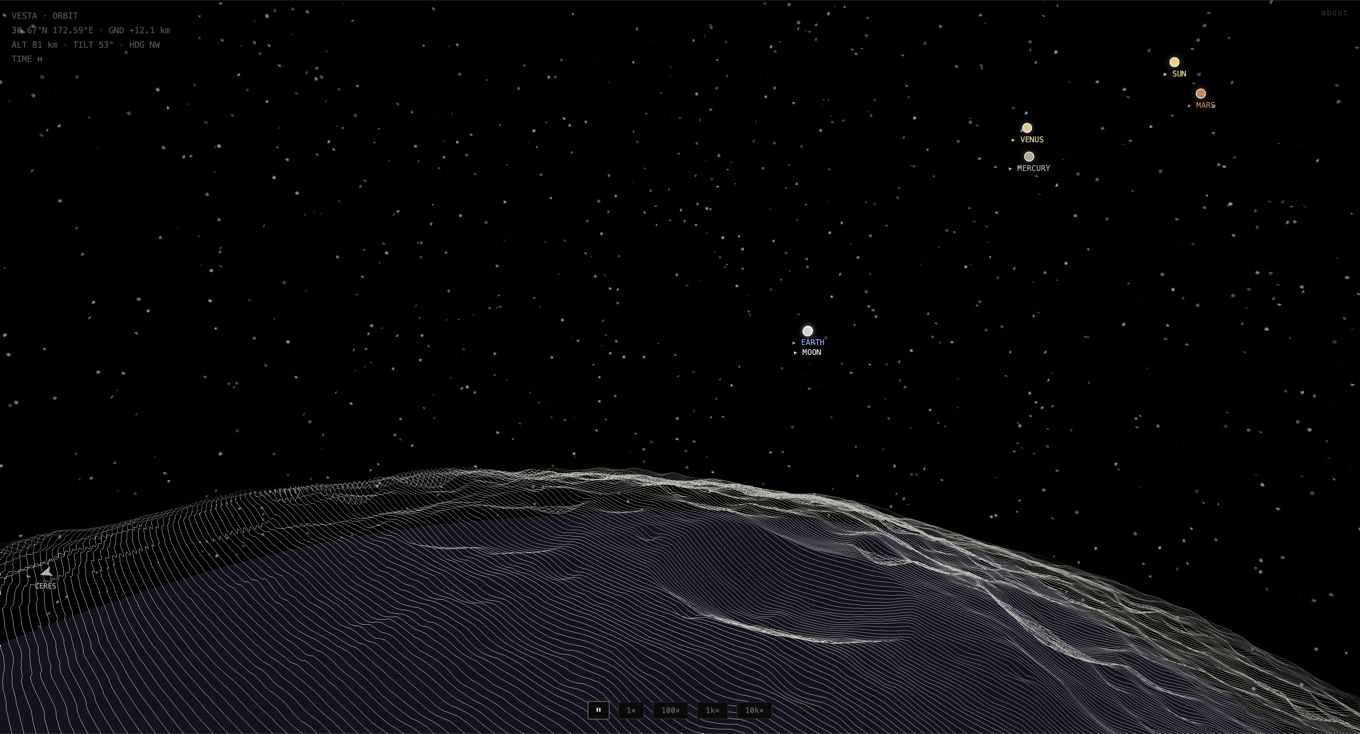
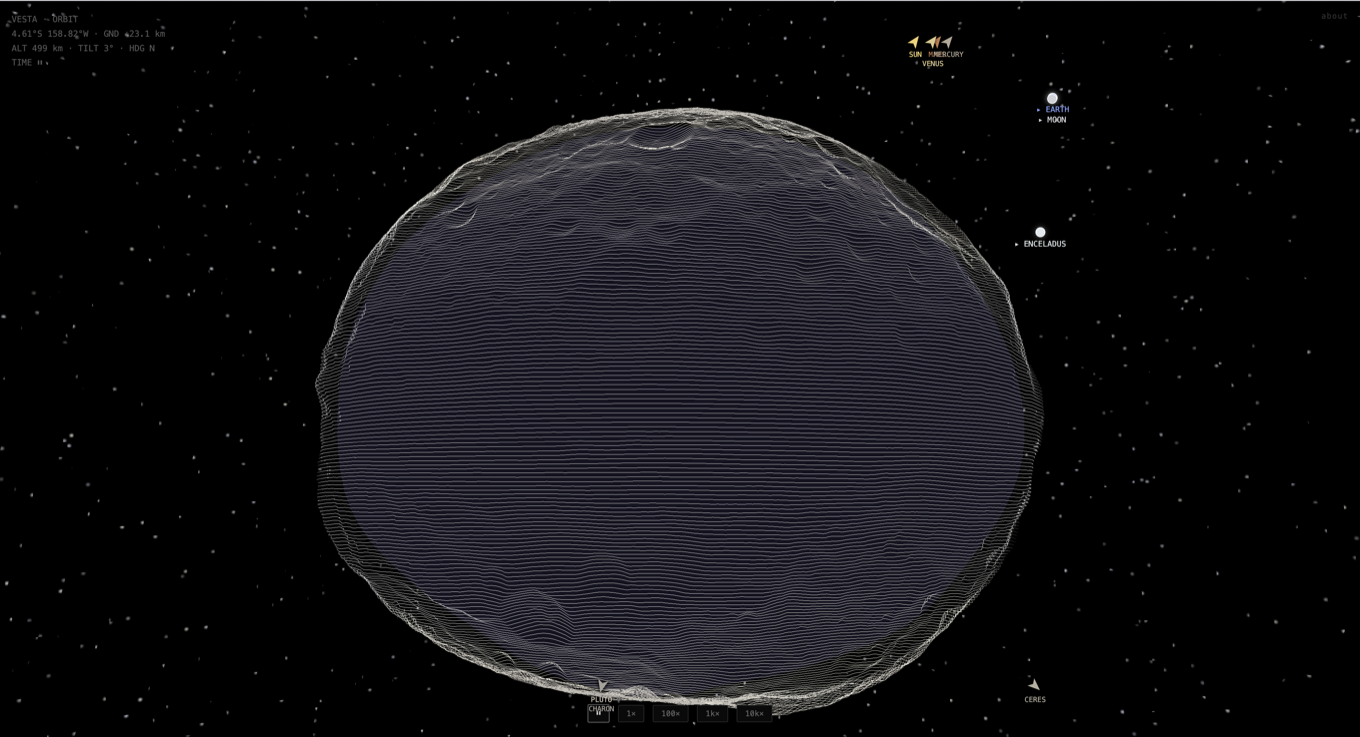
Mars image (#21)
* blog: add the Olympus Mons view to the exaggeration section

* blog: add the SYSTEM view to the logarithmic-compression section

* blog: click an image to open it full size

Plain <a> around the <img>, no JS. The column is 680px and the files are
1360px native, so a new tab is 2x. Only my own screenshots — the
Scientific American one stays a plain image.

* blog: swap the opening Vesta image

* blog: use the full-disc Vesta shot as the opener

diff --git a/blog/about-astres.md b/blog/about-astres.md
@@ -13,7 +13,7 @@ Each one is a globe of stacked Joy Division "Unknown Pleasures" ridgelines.
 Try the demo: [astres](/astres/)  
 Read the code: [github.com/idle-intelligence/ridgeline](https://github.com/idle-intelligence/ridgeline)
 
-![Vesta seen from orbit, its ridgelines lit against the starfield, with the Sun, Mars, Venus, Mercury, Earth and the Moon marked in the sky](/blog/images/vesta-orbit.png)
+[![Vesta seen whole from orbit, its irregular shape drawn as stacked ridgelines, with Earth, the Moon, the Sun, Venus, Mercury, Enceladus and Ceres marked in the sky](/blog/images/vesta-orbit.png)](/blog/images/vesta-orbit.png)
 
 ## Unknown Pleasures
 
@@ -57,7 +57,7 @@ Bright ridges are magnetic active regions. Because a synoptic map is stitched st
 
 The representation doesn't necessarily mean much scientifically, but it looks cool :p
 
-![The Sun from the corona: magnetic active regions drawn as bright ridgelines over the photosphere, with Venus, Mars, Vesta, Ceres and Enceladus marked in the sky](/blog/images/sun-corona.png)
+[![The Sun from the corona: magnetic active regions drawn as bright ridgelines over the photosphere, with Venus, Mars, Vesta, Ceres and Enceladus marked in the sky](/blog/images/sun-corona.png)](/blog/images/sun-corona.png)
 
 ## World units and altitude bands
 
@@ -86,6 +86,8 @@ At true scale there would be nothing to see: Everest is 8.8 km on a 6371 km plan
 
 Each body then applies its own factor. Mars is damped to 0.45: Olympus Mons rises 21 km, the tallest relief in the system, and at full exaggeration it overtakes the globe. Mercury sits at 0.9, Pluto at 1.4, the Sun at 1.5; the rest are 1.0.
 
+[![Olympus Mons above the horizon, Valles Marineris](/blog/images/mars-olympus.png)](/blog/images/mars-olympus.png)
+
 Ceres, Vesta, Enceladus and Charon are left unscaled. They are small enough that their real relief is already a visible fraction of their radius (±1.1% for Enceladus, ±2.3% for Charon), so they are drawn at a fixed exaggeration preserving the true ratio. Vesta is that lumpy: its semi-axes differ by about 60 km.
 
 ## Logarithmic system
@@ -100,7 +102,11 @@ Only radial distance is compressed, logarithmically:
 display radius = log₁₀(1 + AU) ÷ log₁₀(1 + 40)
 ```
 
-Zero at the Sun, 1.0 at 40 AU, roughly Pluto's orbit. Everything else is unmodified. Each body's direction is its true heliocentric position from a Kepler ephemeris (JPL/Standish approximate elements, 1800–2050, J2000 epoch), so ecliptic longitudes, spacing order, and the tilt of Pluto's 17°-inclined orbit are all correct. Spin and orbital periods come from the same elements.
+Zero at the Sun, 1.0 at 40 AU, roughly Pluto's orbit. Everything else is unmodified.
+
+[![The SYSTEM view: every body on its true heliocentric bearing, orbits drawn with log-compressed radii, Pluto's inclined orbit sweeping well outside the rest](/blog/images/system-view.png)](/blog/images/system-view.png)
+
+Each body's direction is its true heliocentric position from a Kepler ephemeris (JPL/Standish approximate elements, 1800–2050, J2000 epoch), so ecliptic longitudes, spacing order, and the tilt of Pluto's 17°-inclined orbit are all correct. Spin and orbital periods come from the same elements.
 
 ## Architecture
 
